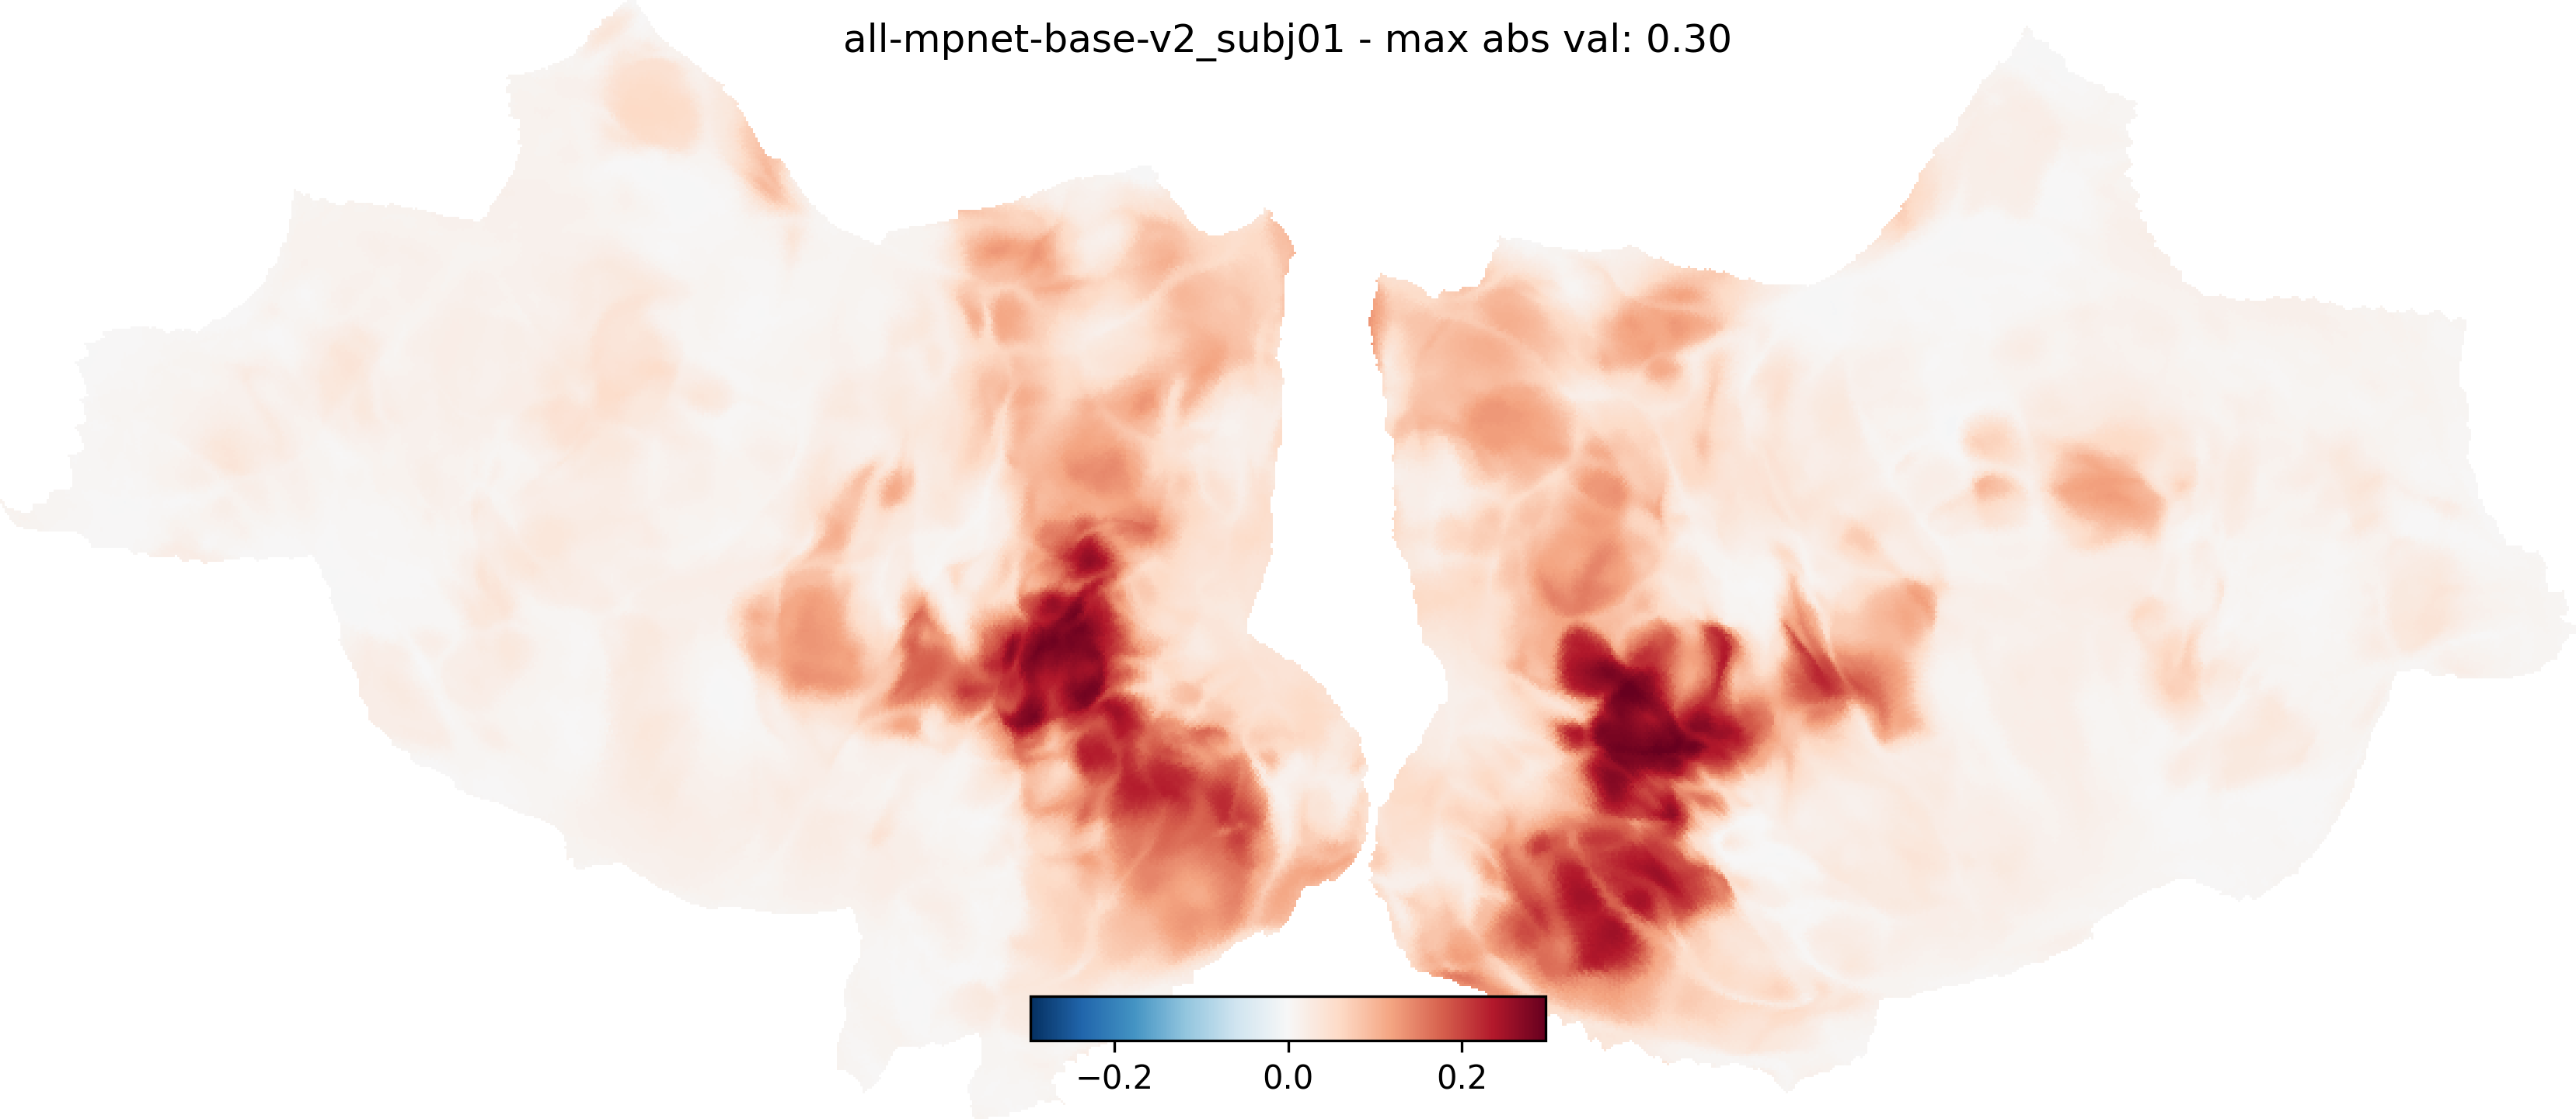
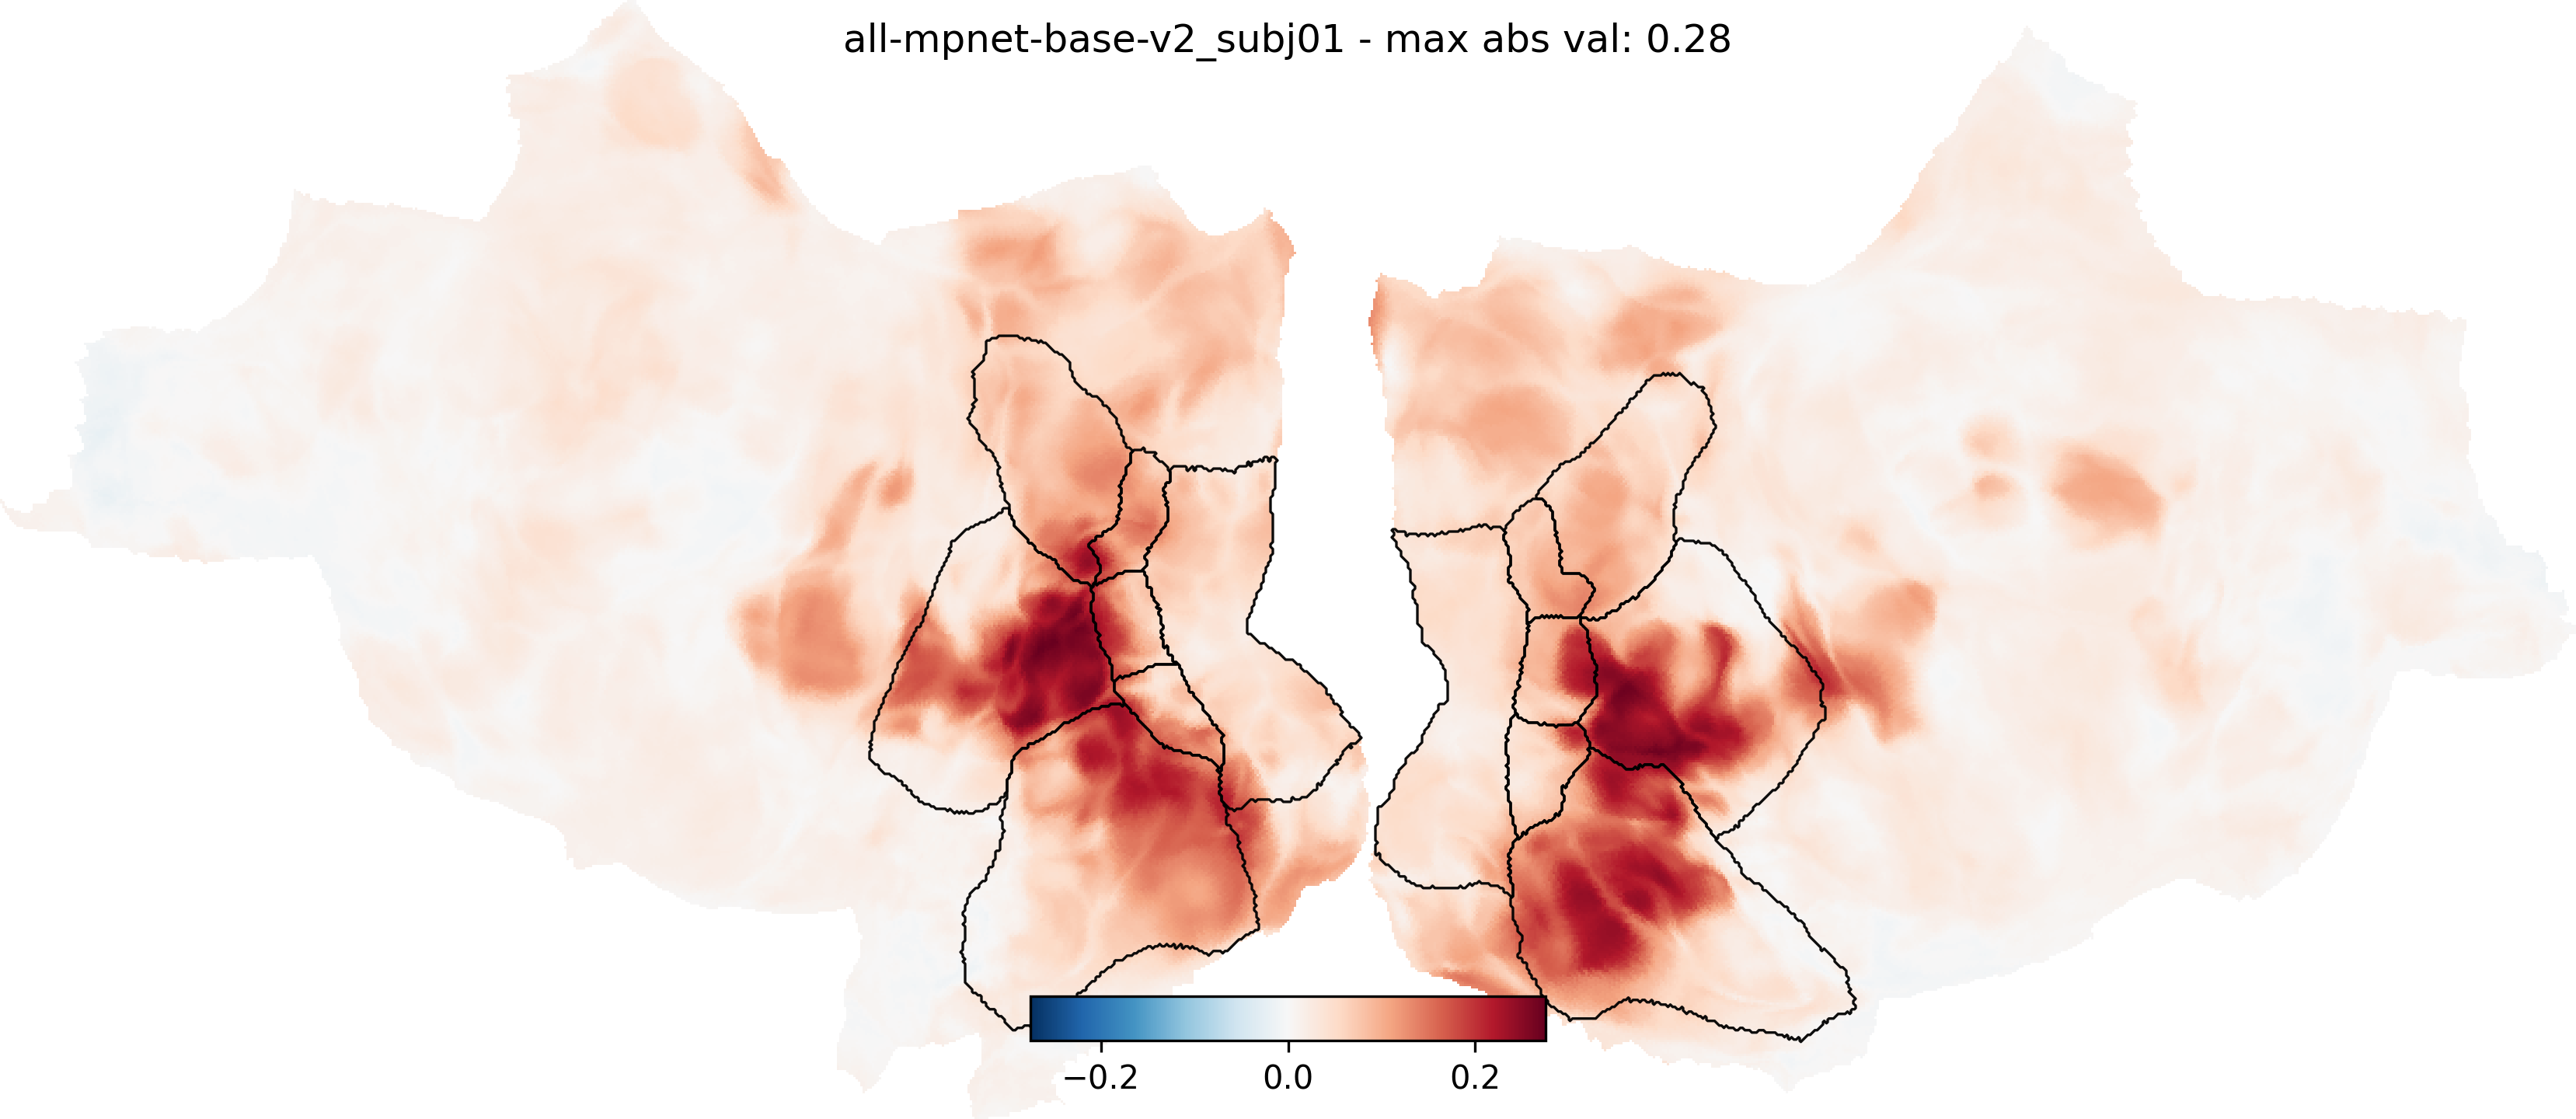
Update README with subj01/subj02 model-vs-brain figures
Add mpnet, stable diffusion VAE, and pixel-space RDM comparison figures
for subjects 1 and 2 (20 sessions). Drop the now-unreferenced 10-session
mpnet figure and the old subj02 pixel figure. Ignore local run logs,
profiler traces, and tooling dirs.

diff --git a/README.md b/README.md
@@ -15,14 +15,25 @@
 
 **subject 1, 20 sessions, 25 sampled 100x100 RDMs:**
 
+mpnet validation
+![all-mpnet-base-v2 vs human brain](lucas_exploration/figures/all-mpnet-base-v2_subj01_20_sessions.png)
+
 custom mini beta VAE trained on MS COCO 2014 train set
 ![beta VAE vs human brain](lucas_exploration/figures/simplebetavae_beta4_z32_seed0_64px_subj01.png)
 
-mpnet base v2
-![all-mpnet-base-v2 vs human brain](lucas_exploration/figures/all-mpnet-base-v2_subj01_20_sessions.png)
+pretrained stable diffusion VAE
+![stable diffusion VAE vs human brain](lucas_exploration/figures/sdvae_ft_mse_latents_subj01.png)
 
-**subject 1, 10 sessions, 8 sampled 100x100 RDMs:**
-![all-mpnet-base-v2 vs human brain](lucas_exploration/figures/all-mpnet-base-v2_subj01_10_sessions.png)
+pixel space of NSD images
+![pixel space vs human brain](lucas_exploration/figures/pixels_rgb_64px_subj01_20_sessions.png)
+
+**subject 2, 20 sessions, 25 sampled 100x100 RDMs:**
+
+mpnet validation
+![all-mpnet-base-v2 vs human brain](lucas_exploration/figures/all-mpnet-base-v2_subj02_20_sessions.png)
+
+pixel space of NSD images
+![pixel space vs human brain](lucas_exploration/figures/pixels_rgb_64px_subj02_20_sessions.png)
 
 ## Citation
 